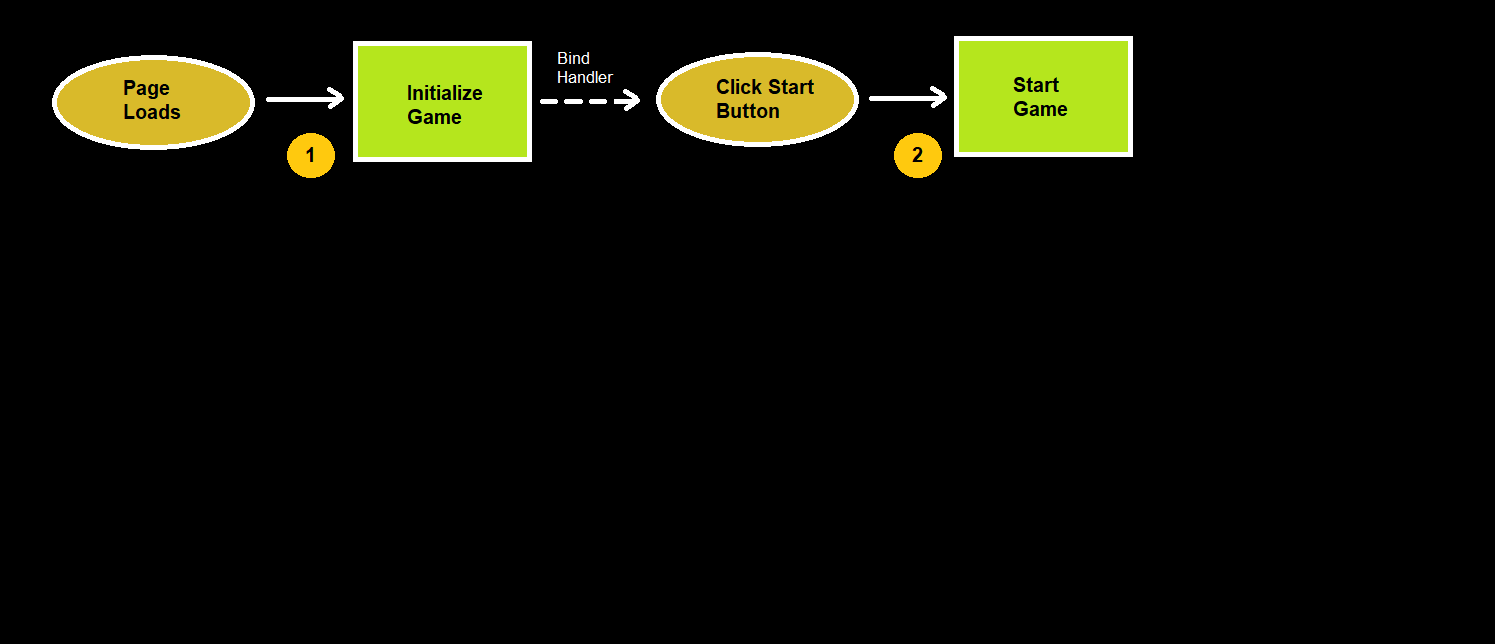
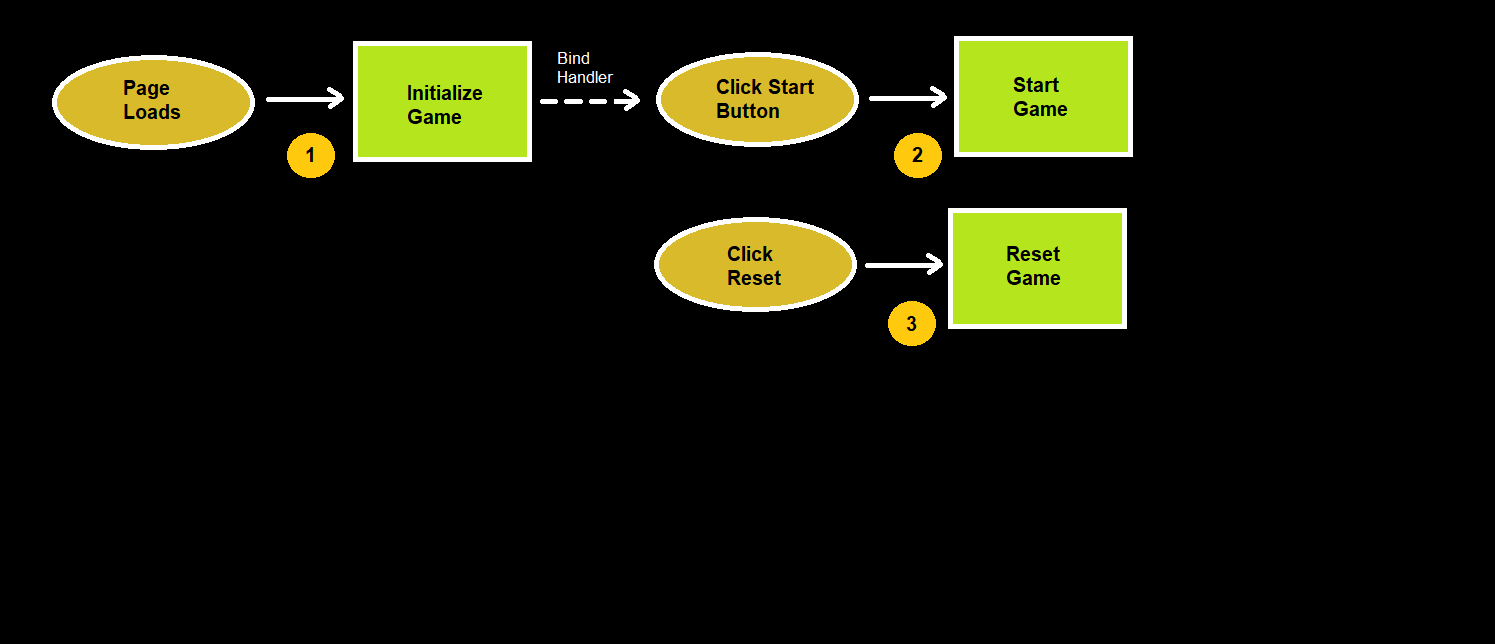
Add reset features

Changed region(s): [[0.4308, 0.3106, 0.7692, 0.559]]

diff --git a/Framework/Ball/PointCount2.js b/Framework/Ball/PointCount2.js
@@ -2,38 +2,89 @@ import { Printer } from "../Printer.js";
 
 export class PointCount2 extends Printer {
   #mid;
+  #inGame;
+  #size;
+  #ball;
+  #player1Points;
+  #player2Points;
 
   constructor(views, ball) {
     super(views.get('points').ctx);
     this.#mid = views.get('points').size.x / 2;
-    this.size = views.get('game').size;
-    this.ball = ball;
-    this.inGame = true;
-    this.player1Points = 0;
-    this.player2Points = 0;
+    this.#size = views.get('game').size;
+    this.#ball = ball;
+    this.reset();
   }
 
   update() {
-    if (this.ball.position.x <= 0 && this.inGame) {
-      this.inGame = false;
-      this.player2Points += 1;
-    } else if (this.ball.position.x >= this.size.x && this.inGame) {
-      this.inGame = false;
-      this.player1Points += 1;
-    } else if (this.inGame === false) {
-      this.ball.position.x = this.size.x / 2;
-      this.ball.position.y = this.size.y / 2;
-      this.ball.bearing.getBallDir();
-      this.ball.setBearingSpeed();
-      this.inGame = true;
+    if (this.#isPlayer2Score()) {
+      this.#scorePlayer2();
+    } else if (this.#isPlayer1Score()) {
+      this.#scorePlayer1();
+    } else if (this.#isGameOff()) {
+      this.#restart();
     }
   }
 
+  #isPlayer1Score() {
+    return this.#ball.position.x >= this.#size.x && this.#inGame;
+  }
+
+  #scorePlayer1() {
+    this.#inGame = false;
+    this.#player1Points += 1;
+  }
+
+  #isPlayer2Score() {
+    return this.#ball.position.x <= 0 && this.#inGame;
+  }
+
+  #scorePlayer2() {
+    this.#inGame = false;
+    this.#player2Points += 1;
+  }
+
+  #isGameOff() {
+    return this.#inGame === false;
+  }
+
+  #restart() {
+    this.#inGame = true;
+    this.#ball.restart();
+  }
+
   draw() {
+    this.#setFont();
+    this.#printPlayer1Points();
+    this.#printDivider();
+    this.#printPlayer2Points();
+    this.#resetFont();
+  }
+
+  #setFont() {
     this.setPrint('left', 'bold 46px Arial');
-    this.print(this.player1Points, this.#mid - 80, 60, 'green');
+  }
+
+  #printPlayer1Points() {
+    this.print(this.#player1Points, this.#mid - 80, 60, 'green');
+  }
+
+  #printDivider() {
     this.print('-', this.#mid, 60, 'white');
-    this.print(this.player2Points, this.#mid + 65, 60, 'blue');
+  }
+
+  #printPlayer2Points() {
+    this.print(this.#player2Points, this.#mid + 65, 60, 'blue');
+  }
+
+  #resetFont() {
     this.setPrint('left', 'normal 12px Arial');
+  }  
+
+  reset() {
+    this.#ball.clearStart();
+    this.#inGame = true;
+    this.#player1Points = 0;
+    this.#player2Points = 0;
   }
 }

diff --git a/Framework/Ball/BallV4.js b/Framework/Ball/BallV4.js
@@ -3,7 +3,8 @@ import { Vector2 } from "../Vector2.js";
 
 export class BallV4 extends BallV3 {
   #drawVect;
-  
+  #cancelStart;
+
   constructor(
     gameSize,
     position,
@@ -36,7 +37,7 @@ export class BallV4 extends BallV3 {
     this.#drawSpeed(ctx);
   }
 
-  setBearingSpeed() {
+  #setBearingSpeed() {
     const m = .3;
     const dir = new Vector2(this.bearing.direction.x - this.bearing.position.x, this.bearing.direction.y - this.bearing.position.y);
     const ndir = dir.normalize();
@@ -51,5 +52,21 @@ export class BallV4 extends BallV3 {
     ctx.moveTo(this.position.x, this.position.y);
     ctx.lineTo(this.position.x + this.speed.x * 400, this.position.y + this.speed.y * 400);
     ctx.stroke();
+  }
+
+  start(delay = 2000) {
+    this.bearing?.getBallDir();
+    this.#cancelStart = setTimeout(() => {
+      this.#setBearingSpeed();
+    }, delay);
+  }
+
+  restart(delay = 2000) {
+    this.reset();
+    this.start(delay);
+  }
+
+  clearStart() {
+    clearTimeout(this.#cancelStart);
   }
 }

diff --git a/Pong/Pong2.js b/Pong/Pong2.js
@@ -69,21 +69,19 @@ views.get('info').setCanvas();
 views.get('points').setCanvas();
 
 const game = new Game2(new PongFactory2(views));
-game.ball.bearing.getBallDir();
 const btnStart = document.querySelector('#btnStart');
 btnStart.addEventListener("click", startGame, false);
 const btnReset = document.querySelector('#btnReset');
 btnReset.addEventListener("click", resetGame, false);
 
 function startGame() {
-  setTimeout(() => {
-    game.ball.setBearingSpeed();
-  }, 2000);
+  game.ball.start();
 }
 function resetGame() {
   game.player1.reset();
   game.player2.reset();
   game.ball.reset();
+  game.pointCount.reset();
 }
 
 function animate(timestamp) {
